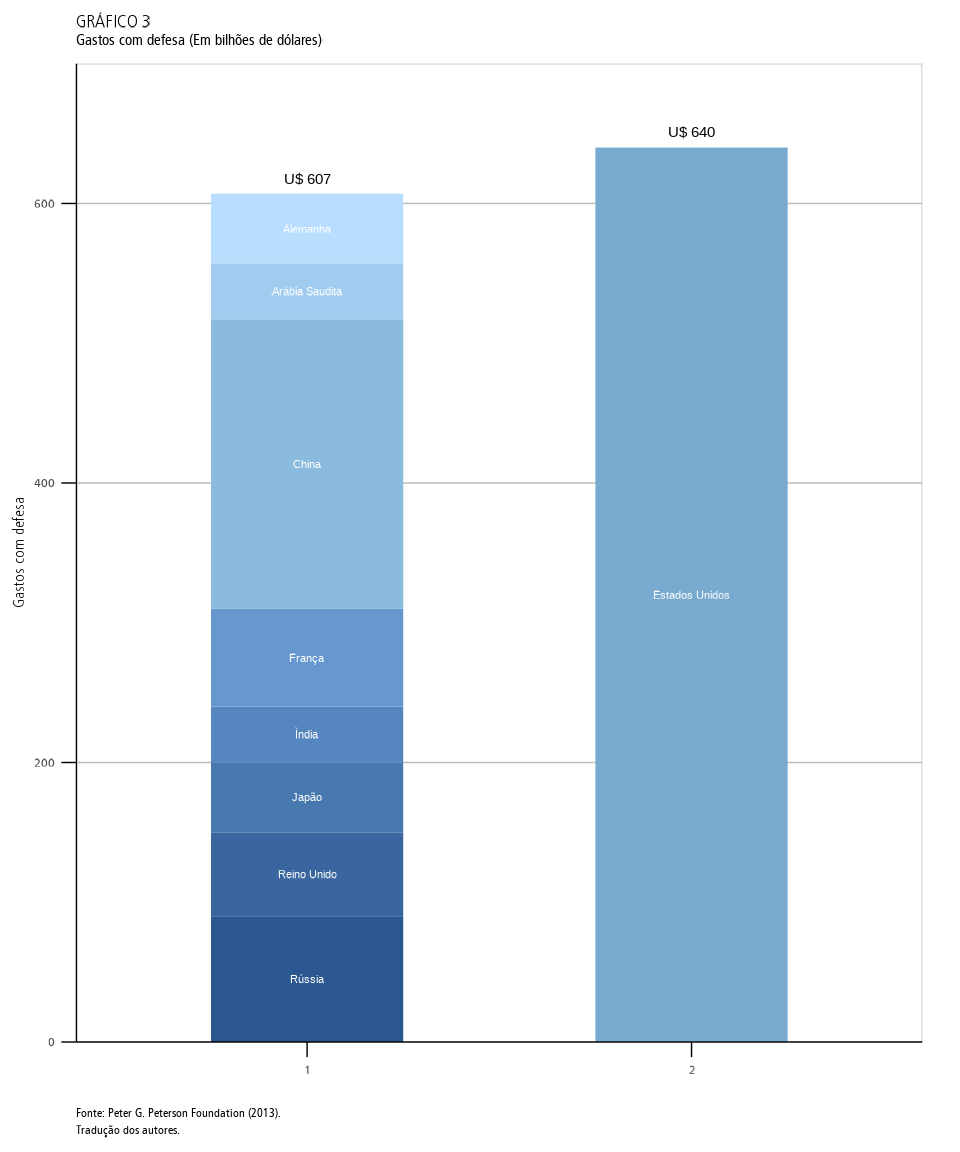
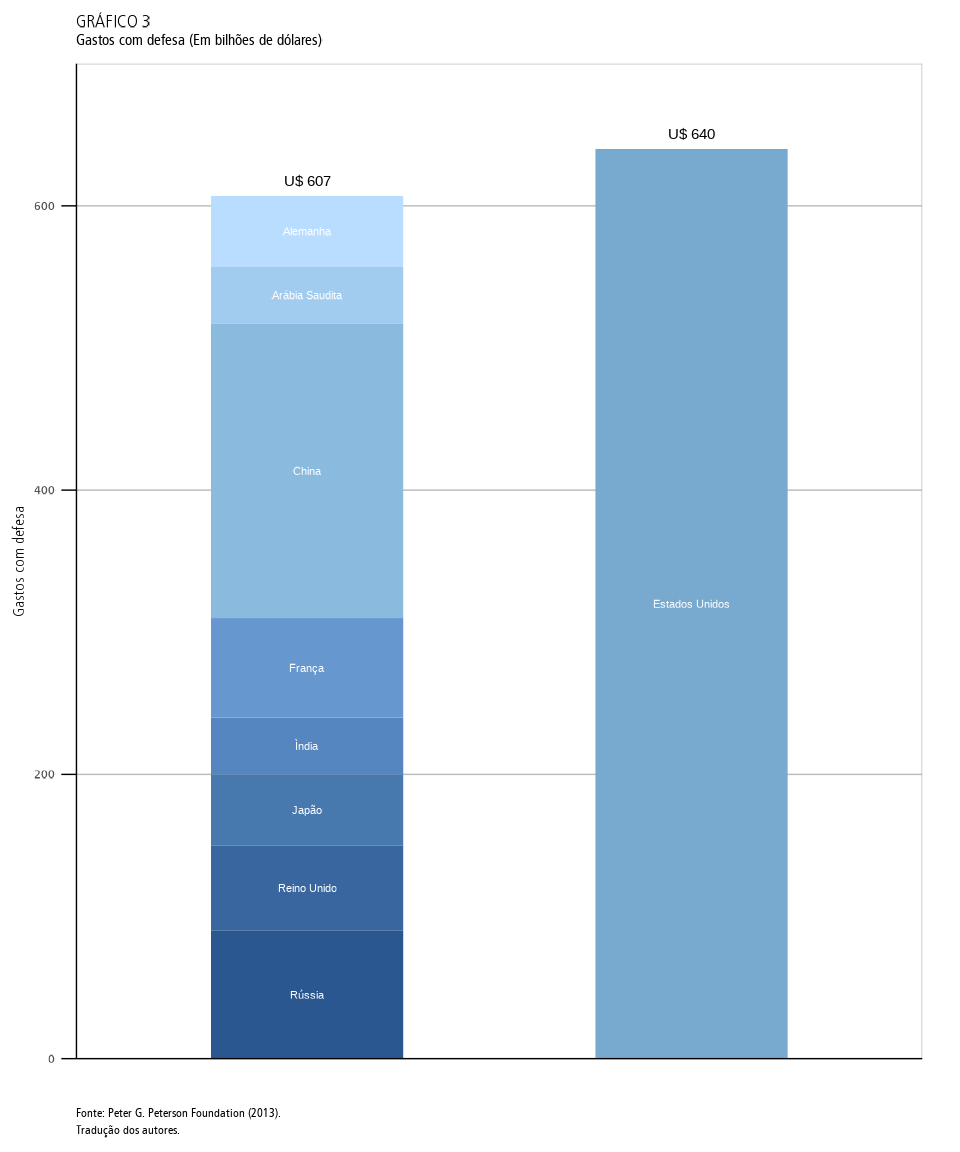
Deploying to gh-pages from @ ipeadata-lab/ipeaplot@4df9ff94925a2c9f7bb3dc64fb0502ab84798603 🚀

diff --git a/articles/cookbook.html b/articles/cookbook.html
@@ -71,7 +71,7 @@
   <main id="main" class="col-md-9"><div class="page-header">
       <img src="" class="logo" alt=""><h1>Comparativo ipeaplot</h1>
             
-            <h4 data-toc-skip class="date">2023-09-27</h4>
+            <h4 data-toc-skip class="date">2023-10-05</h4>
       
       <small class="dont-index">Source: <a href="https://github.com/ipeadata-lab/ipeaplot/blob/HEAD/vignettes/cookbook.Rmd" class="external-link"><code>vignettes/cookbook.Rmd</code></a></small>
       <div class="d-none name"><code>cookbook.Rmd</code></div>
@@ -263,7 +263,9 @@ após aplicarmos as diretrizes editoriais do Ipea usando o
 <span>  <span class="fu"><a href="../reference/scale_fill_ipea.html">scale_fill_ipea</a></span><span class="op">(</span>discrete <span class="op">=</span> <span class="cn">T</span><span class="op">)</span> <span class="op">+</span></span>
 <span>  <span class="fu"><a href="https://ggplot2.tidyverse.org/reference/geom_text.html" class="external-link">geom_text</a></span><span class="op">(</span> position <span class="op">=</span> <span class="fu"><a href="https://ggplot2.tidyverse.org/reference/position_stack.html" class="external-link">position_stack</a></span><span class="op">(</span>vjust <span class="op">=</span> <span class="fl">0.5</span><span class="op">)</span>, color <span class="op">=</span> <span class="st">'white'</span>, size <span class="op">=</span> <span class="fl">3</span><span class="op">)</span> <span class="op">+</span></span>
 <span>  <span class="fu"><a href="https://ggplot2.tidyverse.org/reference/geom_text.html" class="external-link">geom_text</a></span><span class="op">(</span>data <span class="op">=</span> <span class="va">temp</span>, <span class="fu"><a href="https://ggplot2.tidyverse.org/reference/aes.html" class="external-link">aes</a></span><span class="op">(</span>y <span class="op">=</span> <span class="va">total</span> ,label <span class="op">=</span> <span class="fu"><a href="https://rdrr.io/r/base/paste.html" class="external-link">paste0</a></span><span class="op">(</span><span class="st">"U$ "</span>,<span class="va">total</span><span class="op">)</span><span class="op">)</span>, vjust <span class="op">=</span> <span class="op">-</span><span class="fl">1</span><span class="op">)</span> <span class="op">+</span></span>
-<span>  <span class="fu"><a href="../reference/theme_ipea.html">theme_ipea</a></span><span class="op">(</span>legend.position<span class="op">=</span><span class="st">"none"</span><span class="op">)</span></span>
+<span>  <span class="fu"><a href="../reference/theme_ipea.html">theme_ipea</a></span><span class="op">(</span>legend.position<span class="op">=</span><span class="st">"none"</span><span class="op">)</span> <span class="op">+</span></span>
+<span>  <span class="fu"><a href="https://ggplot2.tidyverse.org/reference/theme.html" class="external-link">theme</a></span><span class="op">(</span>axis.ticks.x <span class="op">=</span> <span class="fu">ggplot2</span><span class="fu">::</span><span class="fu"><a href="https://ggplot2.tidyverse.org/reference/element.html" class="external-link">element_blank</a></span><span class="op">(</span><span class="op">)</span>,</span>
+<span>        axis.text.x  <span class="op">=</span> <span class="fu">ggplot2</span><span class="fu">::</span><span class="fu"><a href="https://ggplot2.tidyverse.org/reference/element.html" class="external-link">element_blank</a></span><span class="op">(</span><span class="op">)</span><span class="op">)</span></span>
 <span></span>
 <span><span class="va">graf3</span></span></code></pre></div>
 <p><img src="cookbook_files/figure-html/unnamed-chunk-9-1.png" width="100%" style="display: block; margin: auto;"></p>

diff --git a/articles/intro_ipeaplot.html b/articles/intro_ipeaplot.html
@@ -71,7 +71,7 @@
   <main id="main" class="col-md-9"><div class="page-header">
       <img src="" class="logo" alt=""><h1>Introdução ao ipeaplot</h1>
             
-            <h4 data-toc-skip class="date">2023-09-27</h4>
+            <h4 data-toc-skip class="date">2023-10-05</h4>
       
       <small class="dont-index">Source: <a href="https://github.com/ipeadata-lab/ipeaplot/blob/HEAD/vignettes/intro_ipeaplot.Rmd" class="external-link"><code>vignettes/intro_ipeaplot.Rmd</code></a></small>
       <div class="d-none name"><code>intro_ipeaplot.Rmd</code></div>
